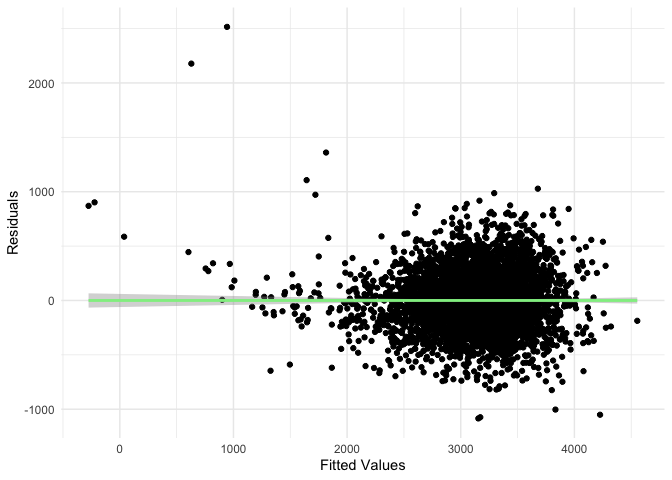
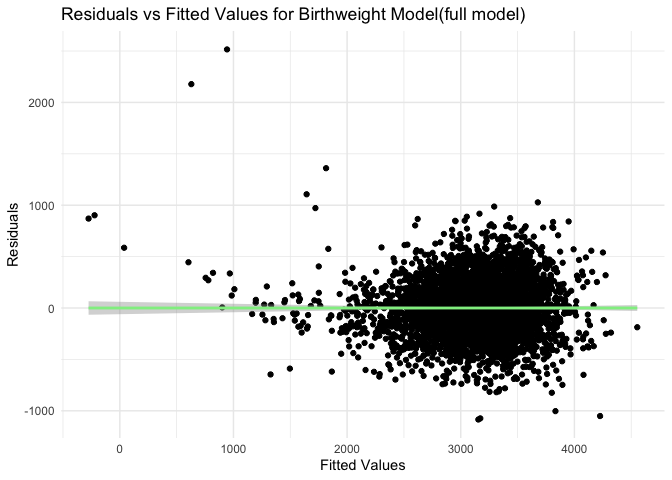
Finishing problem 3 - the viollin plots and the comments

diff --git a/p8105_hw6_iah2124.md b/p8105_hw6_iah2124.md
@@ -323,7 +323,11 @@ birthweight_df |>
   geom_point() + 
   geom_smooth(method = "lm", color = "lightgreen") + 
   theme_minimal() +
-  labs(x = "Fitted Values", y = "Residuals")
+  labs(
+    title = "Residuals vs Fitted Values for Birthweight Model(full model)", 
+    x = "Fitted Values", 
+    y = "Residuals"
+  )
 ```
 
     ## `geom_smooth()` using formula = 'y ~ x'
@@ -343,7 +347,10 @@ birthweight_df |>
   geom_point() + 
   geom_smooth(method = "lm", color = "tomato") + 
   theme_minimal() +
-  labs(x = "Fitted Values", y = "Residuals")
+  labs(
+      title = "Residuals vs Fitted Values for Birthweight Model(main effects)", 
+      x = "Fitted Values", y = "Residuals"
+      )
 ```
 
     ## `geom_smooth()` using formula = 'y ~ x'
@@ -362,7 +369,10 @@ birthweight_df |>
   geom_point() + 
   geom_smooth(method = "lm", color = "orchid") + 
   theme_minimal() +
-  labs(x = "Fitted Values", y = "Residuals")
+  labs(
+    title = "Residuals vs Fitted Values for Birthweight Model(interaction)", 
+      x = "Fitted Values", y = "Residuals"
+      )
 ```
 
     ## `geom_smooth()` using formula = 'y ~ x'
@@ -401,4 +411,27 @@ cv_res_df <- cv_df |>
     ## ! prediction from rank-deficient fit; attr(*, "non-estim") has doubtful cases
     ## ℹ Run `dplyr::last_dplyr_warnings()` to see the 2 remaining warnings.
 
-Plotting comparisons
+Plotting comparisons - Villon plot
+
+``` r
+cv_res_df |> 
+  select(starts_with("rmse")) |> 
+  pivot_longer(
+    everything(),
+    names_to = "model", 
+    values_to = "rmse",
+    names_prefix = "rmse_"
+  ) |> 
+  ggplot(aes(x = model, y = rmse)) + 
+  geom_violin() + 
+  theme_minimal() +
+  labs(x = "Model", y = "RMSE")
+```
+
+![](p8105_hw6_iah2124_files/figure-gfm/unnamed-chunk-18-1.png)<!-- -->
+The hypothetical model has a low RMSE and is pretty evenly distributed,
+making it a great model to use. The interaction model also has a low
+RMSE, but there is less even distribution in this model, meaning it
+would be a good but not great model. The main effect model has a much
+higher RMSE and is not very evenly distributed, making it a poor model
+to use.
